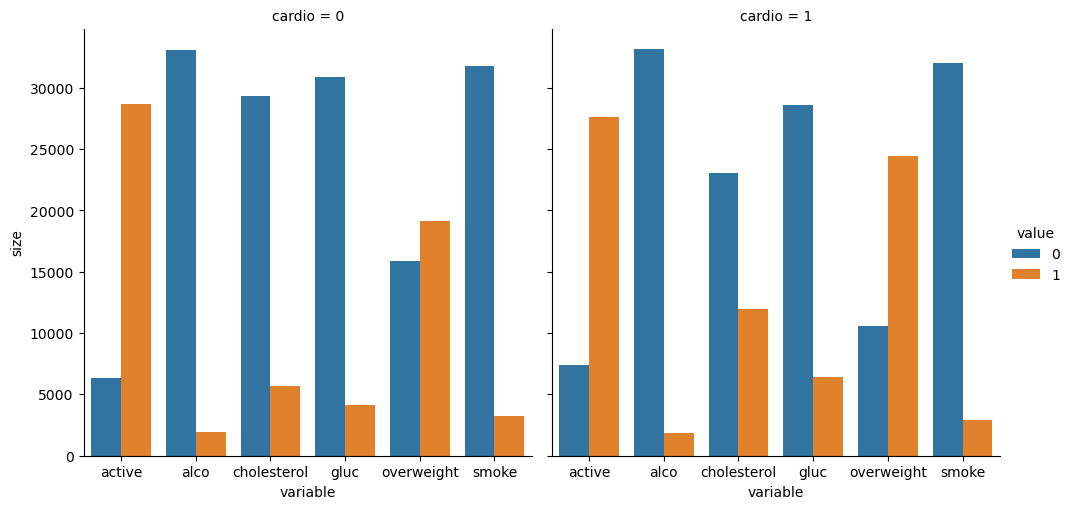
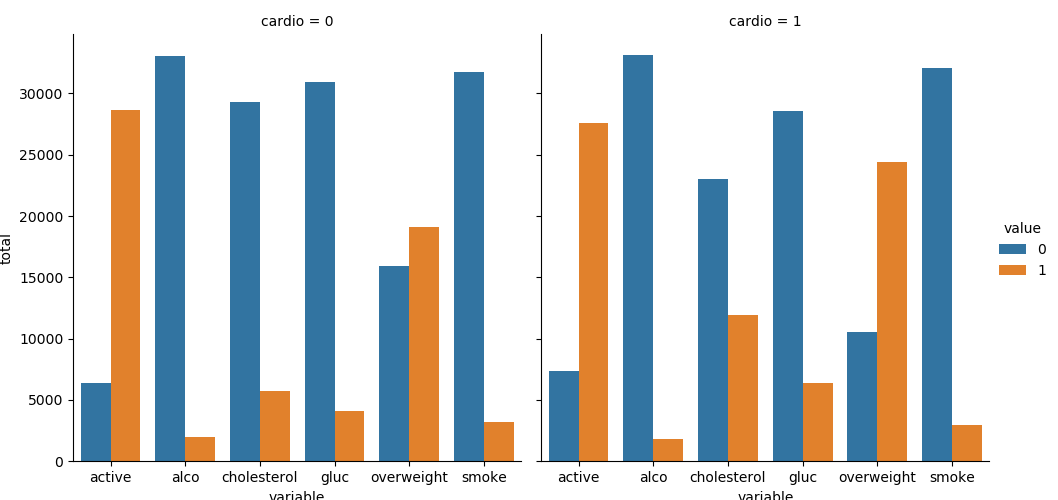
Finishing the third project (Medical Data Visualizer) of the Data-Analysis wit Python Certification program

diff --git a/8-Data_Analysis_with_Python_Certification/3-Medical_Data_Visualizer/medical_data_visualizer.py b/8-Data_Analysis_with_Python_Certification/3-Medical_Data_Visualizer/medical_data_visualizer.py
@@ -23,10 +23,14 @@ def draw_cat_plot():
 
     # Group and reformat the data to split it by 'cardio'. Show the counts of each feature. You will have to rename one of the columns for the catplot to work correctly.
     # df_cat = df_cat.groupby('cardio').groups
-    df_cat = df_cat.groupby(['cardio','variable','value'], as_index = False).size() 
+    df_cat = df_cat.groupby(['cardio','variable','value'], as_index = False).size()
+    # rename the column name in order to pass the tests...
+    df_cat = df_cat.rename(columns={'size':'total'})
 
     # Draw the catplot with 'sns.catplot()'
-    fig = sns.catplot(x="variable", y='size', hue='value', kind='bar', col="cardio", data=df_cat)
+    # Note: catplot doesn’t return a figure, it returns a FacetGrid object. You can add the '.fig' attribute, which is required to pass the tests
+    fig = sns.catplot(x="variable", y='total', hue='value', kind='bar', col="cardio", data=df_cat).fig
+
 
     # Do not modify the next two lines
     fig.savefig('catplot.png')
@@ -36,21 +40,20 @@ def draw_cat_plot():
 # Draw Heat Map
 def draw_heat_map():
     # Clean the data
-    df_heat = None
+    df_heat = df[((df['ap_lo'] <= df['ap_hi'])) & (df['height'] >= (df['height'].quantile(0.025))) & (df['height'] <= (df['height'].quantile(0.975))) & (df['weight'] >= (df['weight'].quantile(0.025))) & (df['weight'] <= (df['weight'].quantile(0.975)))]
 
     # Calculate the correlation matrix
-    corr = None
+    corr = df_heat.corr()
 
     # Generate a mask for the upper triangle
-    mask = None
-
-
+    mask = np.zeros_like(corr)
+    mask[np.triu_indices_from(mask)] = True
 
     # Set up the matplotlib figure
-    fig, ax = None
+    fig, ax = plt.subplots(figsize=(8, 8))
 
     # Draw the heatmap with 'sns.heatmap()'
-
+    ax = sns.heatmap(corr, mask=mask, annot=True, linewidths=.5, vmax=.3, center=0.09,square=True, cmap="YlGnBu", fmt=".1f")
 
 
     # Do not modify the next two lines

diff --git a/8-Data_Analysis_with_Python_Certification/3-Medical_Data_Visualizer/README.md b/8-Data_Analysis_with_Python_Certification/3-Medical_Data_Visualizer/README.md
@@ -4,7 +4,11 @@
 ### See it in action
 [check on Repl.it](...)
 ---
-## Technologies
+### Note(s)
+Be careful with the version of Matplotlib that you will be using for this project.
+You will need the version 3.1.3 in order to have some of the tests to run correctly (otherwise you will have an error with something like 'Second list contains 3 additional elements.')
+---
+### Technologies
 * Python 3
 * Pandas
 * Matplotlib
